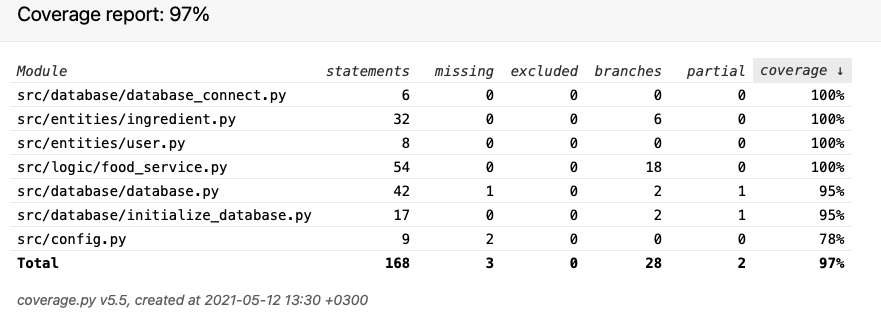
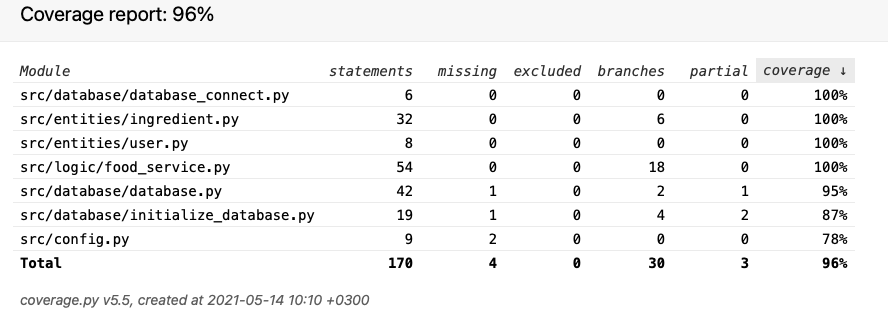
copy pastea pois + muuta korjausta

diff --git a/havikkisovellus/src/ui_visual/create_user_view.py b/havikkisovellus/src/ui_visual/create_user_view.py
@@ -1,7 +1,9 @@
 """Class and methods for creating a user in the UI."""
 from tkinter import ttk, constants, StringVar
 
-class CreateUserView:
+from ui_visual.ui_frame import UIFrame
+
+class CreateUserView(UIFrame):
     """Class for listing the ingredients in the UI.
 
     Attributes:
@@ -11,10 +13,10 @@ class CreateUserView:
             The method for refreshing the view when a new user is created.
         food_service:
             The service class for handling all the logic between the UI and the database.
-        frame:
-            The frame to which elements are attached.
         message_var:
             The message to show in the window.
+        frame:
+            The frame to which elements are attached.
         username:
             The username field for creating a user.
         password:
@@ -41,15 +43,9 @@ class CreateUserView:
         self._username = None
         self._password = None
 
+        super().__init__(self._frame)
+
         self._initialize()
-
-    def pack(self):
-        """Fill the frame with elements."""
-        self._frame.pack(fill=constants.X)
-
-    def destroy(self):
-        """Destroy and delete all the elements in the frame."""
-        self._frame.destroy()
 
     def _create_user(self):
         """Create a user with the given username and password.

diff --git a/havikkisovellus/src/logic/food_service.py b/havikkisovellus/src/logic/food_service.py
@@ -98,7 +98,7 @@ class FoodService:
             perishable_date = time.mktime(datetime.datetime.strptime(date, "%d/%m/%Y").timetuple())
         return int(perishable_date)
 
-    def add_ingredient(self, date, ingredient, expire_date, username='testi'):
+    def add_ingredient(self, date, ingredient, expire_date, username):
         """Add a new ingredient to the database.
 
         Args:
@@ -106,11 +106,10 @@ class FoodService:
                 The date when the ingredient has been added in timestamp format (integer).
             ingredient: The name of the ingredient.
             expire_date: The date when the ingredient will expire.
-            username: The user's username. If not given, 'testi' will be used.
+            username: The user's username.
         """
         self.database.insert_a_new_ingredient(date, ingredient, expire_date, username)
 
-    # TODO: self.user
     def mark_ingredient_as_eaten(self, username, ingredient_id):
         """Mark an ingredient as used.
         Return the marked ingredient for further use.

diff --git a/havikkisovellus/src/ui_visual/after_login_view.py b/havikkisovellus/src/ui_visual/after_login_view.py
@@ -2,9 +2,11 @@
 import time
 
 from tkinter import ttk, constants, Message, StringVar
-from ui_visual.ingredients_view import IngredientsView
 
-class AfterLoginView:
+from ui_visual.ingredients_view import IngredientsView
+from ui_visual.ui_frame import UIFrame
+
+class AfterLoginView(UIFrame):
     """Class for the UI view after logging in.
 
     Attributes:
@@ -51,15 +53,9 @@ class AfterLoginView:
         self._ingredients_view = None
         self._message_var = None
 
+        super().__init__(self._frame)
+
         self._initialize()
-
-    def pack(self):
-        """Fill the frame with elements."""
-        self._frame.pack(fill=constants.X)
-
-    def destroy(self):
-        """Destroy and delete all the elements in the frame."""
-        self._frame.destroy()
 
     def _handle_mark(self, ingredient_elements):
         """Mark the checked ingredients as used,

diff --git a/havikkisovellus/src/ui_visual/ingredients_view.py b/havikkisovellus/src/ui_visual/ingredients_view.py
@@ -1,7 +1,9 @@
 """Class and methods for listing the ingredients in the UI."""
 from tkinter import ttk, constants, IntVar, StringVar
 
-class IngredientsView:
+from ui_visual.ui_frame import UIFrame
+
+class IngredientsView(UIFrame):
     """Class for listing the ingredients in the UI.
 
     Attributes:
@@ -39,15 +41,9 @@ class IngredientsView:
 
         self._ingredient_elems = []
 
+        super().__init__(self._frame)
+
         self._initialize()
-
-    def pack(self):
-        """Fill the frame with elements."""
-        self._frame.pack(fill=constants.X)
-
-    def destroy(self):
-        """Destroy and delete all the elements in the frame."""
-        self._frame.destroy()
 
     def _create_mark_button(self):
         """Create the 'Mark as eaten' button.

diff --git a/havikkisovellus/src/ui_visual/login_view.py b/havikkisovellus/src/ui_visual/login_view.py
@@ -1,8 +1,10 @@
 """Class and methods for the login view."""
 from tkinter import ttk, constants, StringVar
 
+from ui_visual.ui_frame import UIFrame
 
-class LoginView:
+
+class LoginView(UIFrame):
     """Class for the UI view for logging in.
 
     Attributes:
@@ -45,15 +47,9 @@ class LoginView:
         self._username = None
         self._password = None
 
+        super().__init__(self._frame)
+
         self._initialize()
-
-    def pack(self):
-        """Fill the frame with elements."""
-        self._frame.pack(fill=constants.X)
-
-    def destroy(self):
-        """Destroy and delete all the elements in the frame."""
-        self._frame.destroy()
 
     def _handle_login(self):
         """Handle the logging in.

diff --git a/havikkisovellus/src/ui_visual/ui_frame.py b/havikkisovellus/src/ui_visual/ui_frame.py
@@ -1,0 +1,22 @@
+"""Inheritance class for repeating frame functions."""
+from tkinter import constants
+
+class UIFrame:
+    """Class for inheritable functions in the UI.
+
+    Attributes:
+        frame: The frame in the view to be modified."""
+
+    def __init__(self, frame):
+        """Class instructor.
+        Args:
+            frame: The frame in the view to be modified."""
+        self._frame = frame
+
+    def pack(self):
+        """Fill the frame with elements."""
+        self._frame.pack(fill=constants.X)
+
+    def destroy(self):
+        """Destroy and delete all the elements in the frame."""
+        self._frame.destroy()

diff --git a/havikkisovellus/src/index.py b/havikkisovellus/src/index.py
@@ -1,3 +1,4 @@
+"""The main file of the program that starts the program."""
 from tkinter import Tk
 
 from database.database import Database
@@ -7,6 +8,8 @@ from ui_visual.ui import UI
 from logic.food_service import FoodService
 
 def main():
+    """Main function of the program.
+    Start the program from here."""
     initialize_database()
 
     database = Database()
@@ -15,8 +18,8 @@ def main():
     window = Tk()
     window.title("Food Waste App")
 
-    ui = UI(window, foodservice)
-    ui.start()
+    ui_base = UI(window, foodservice)
+    ui_base.start()
 
     window.mainloop()
 

diff --git a/havikkisovellus/src/entities/ingredient.py b/havikkisovellus/src/entities/ingredient.py
@@ -5,9 +5,10 @@ class Ingredient:
     """Class that holds the ingredient information.
 
     Attributes:
+        ingr_id: Ingredient's id in the database.
         content: Ingredient's name.
         date_added: The date the ingredient was added to the database.
-        date_preserves: The date the ingredient will expire.
+        date_expires: The date the ingredient will expire.
         used: If the ingredient is used already.
     """
 

diff --git a/havikkisovellus/src/tests/foodservice_test.py b/havikkisovellus/src/tests/foodservice_test.py
@@ -53,7 +53,7 @@ class TestFoodService(unittest.TestCase):
         self.food_service.database.db = []
 
     def test_add_ingredient(self):
-        self.food_service.add_ingredient(1618207606, 'omena', 1617176770)
+        self.food_service.add_ingredient(1618207606, 'omena', 1617176770, 'testi')
         self.assertEqual(len(self.food_service.database.get_all()), 1)
 
     def test_list_added_ingredients(self):

diff --git a/dokumentaatio/testaus.md b/dokumentaatio/testaus.md
@@ -10,7 +10,7 @@ Luokan `Ingredient` testeissä on testattu luokan metodeja `TestIngredient`-test
 
 
 ### Testauskattavuus
-Testauksen haarautumakattavuus on 97%.
+Testauksen haarautumakattavuus on 96%.
 
 ![Haarautumakattavuus](https://github.com/jupouta/ohjelmistotekniikka/blob/master/dokumentaatio/kuvat/haarautumakattavuus.png)
 

diff --git a/dokumentaatio/arkkitehtuuri.md b/dokumentaatio/arkkitehtuuri.md
@@ -59,4 +59,4 @@ Kun käyttäjä klikkaa nappia _Create user_, käyttöliittymä kutsuu ```FoodSe
 
 ## Ohjelman puutteet
 
-Joissakin luokissa on liikaa instanssimuuttuja (instance variables)
+Joissakin luokissa on liikaa instanssimuuttujia (instance variables).

diff --git a/dokumentaatio/tuntikirjanpito.md b/dokumentaatio/tuntikirjanpito.md
@@ -46,6 +46,7 @@
 | | 2 | koodin parannusta |
 | 11.5. | 2 | dokumentaatio |
 | 12.5. | 1,5 | dokumentaatio |
+| 14.5. | 1,5 | korjauksia|
 
 
-Tunnit yhteensä: 52,5h
+Tunnit yhteensä: 54h
